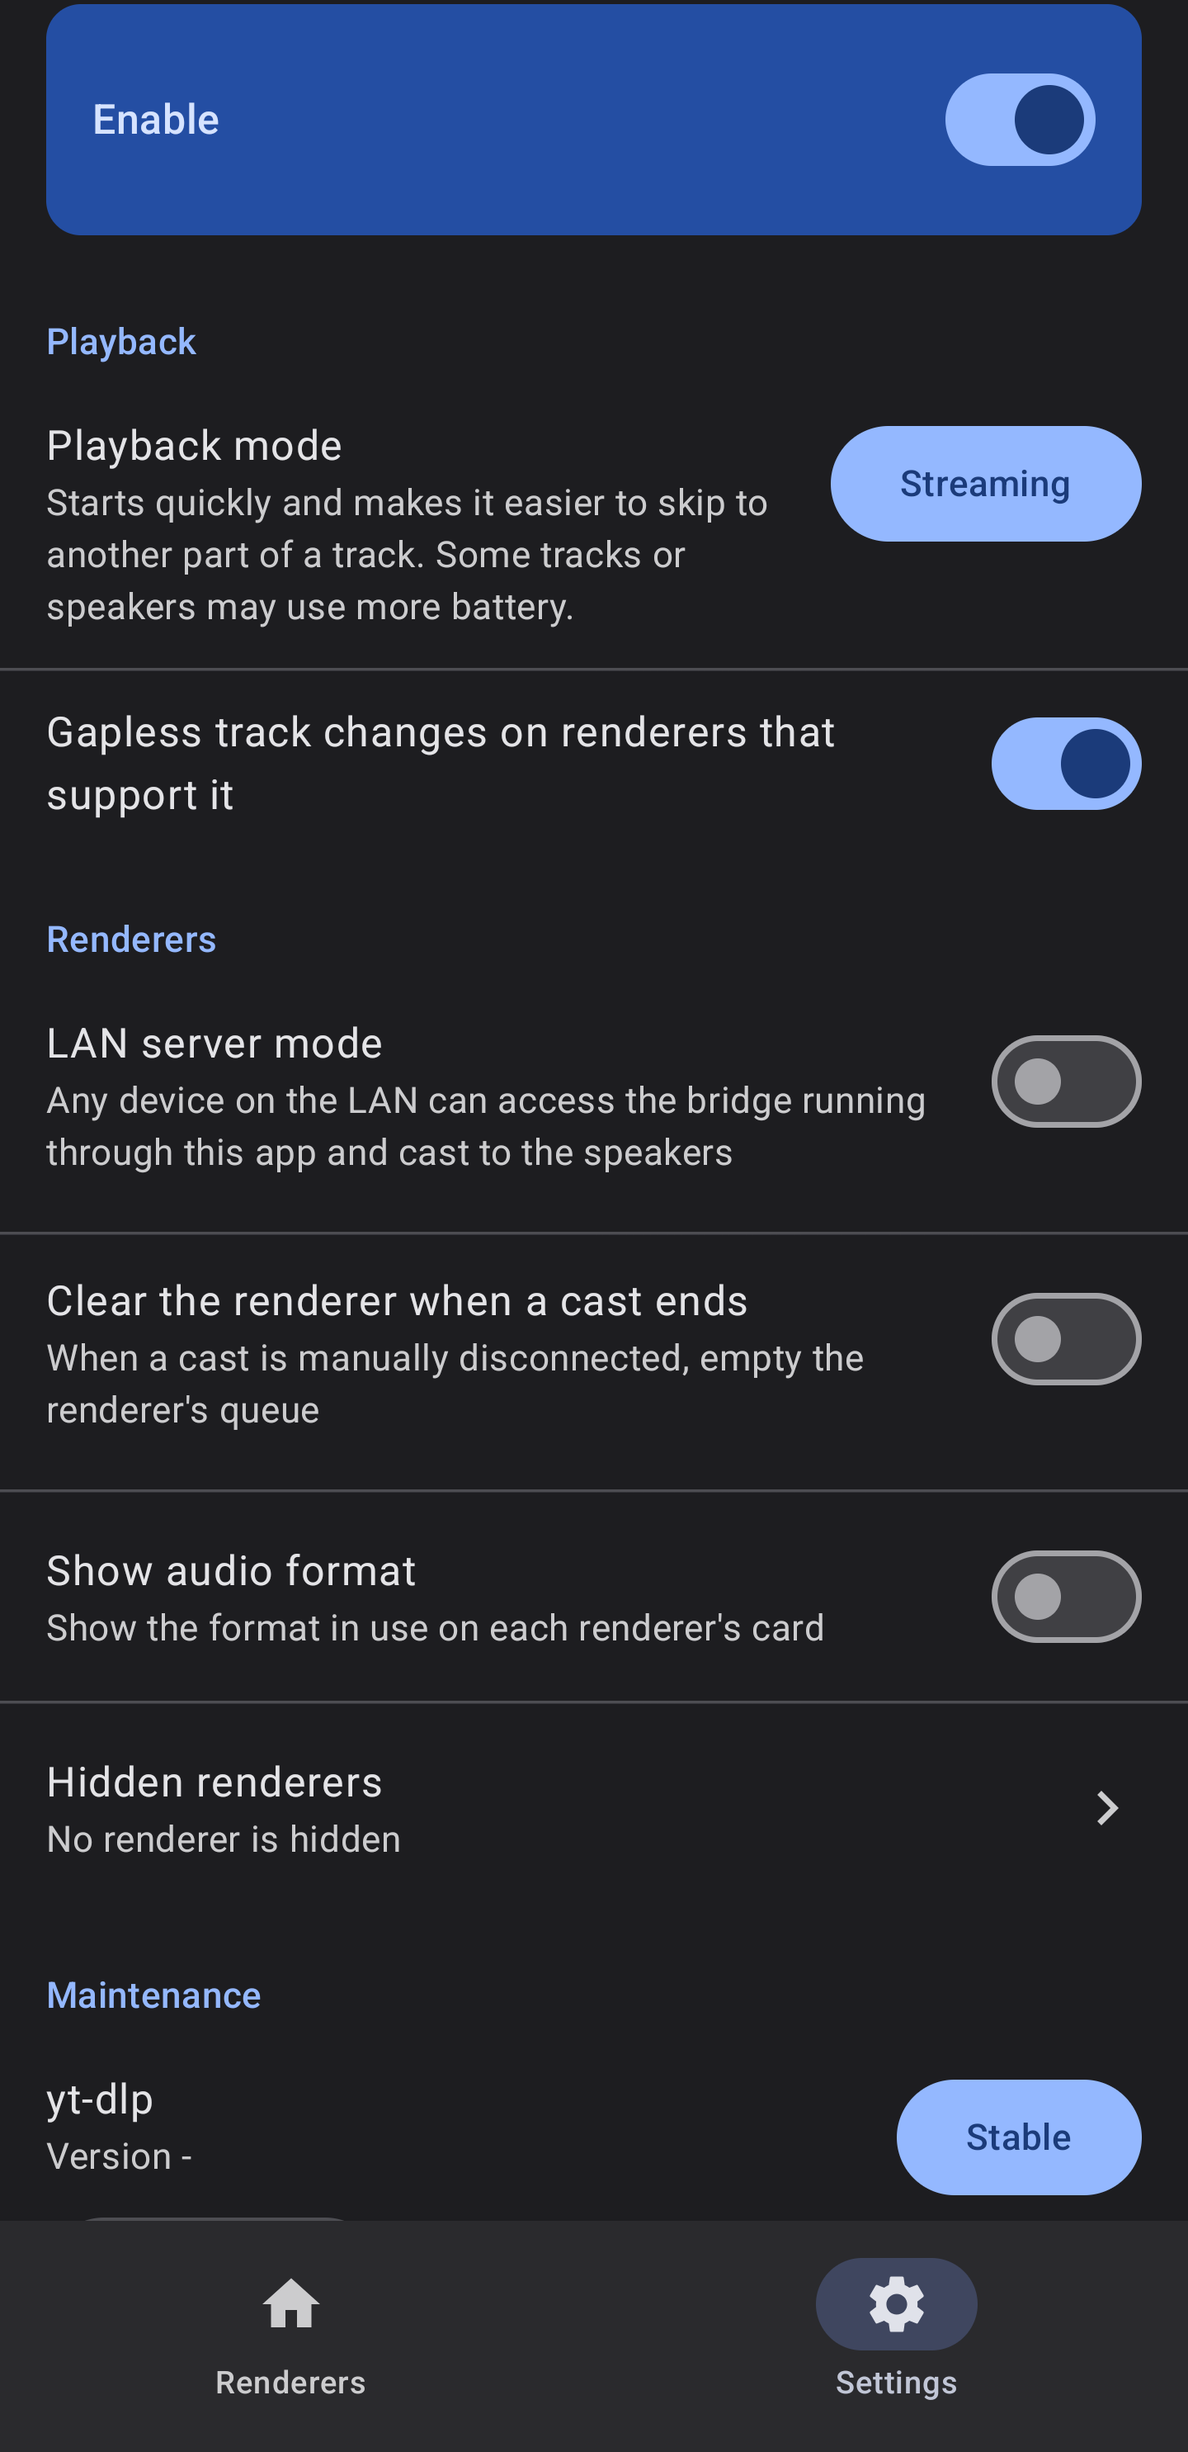
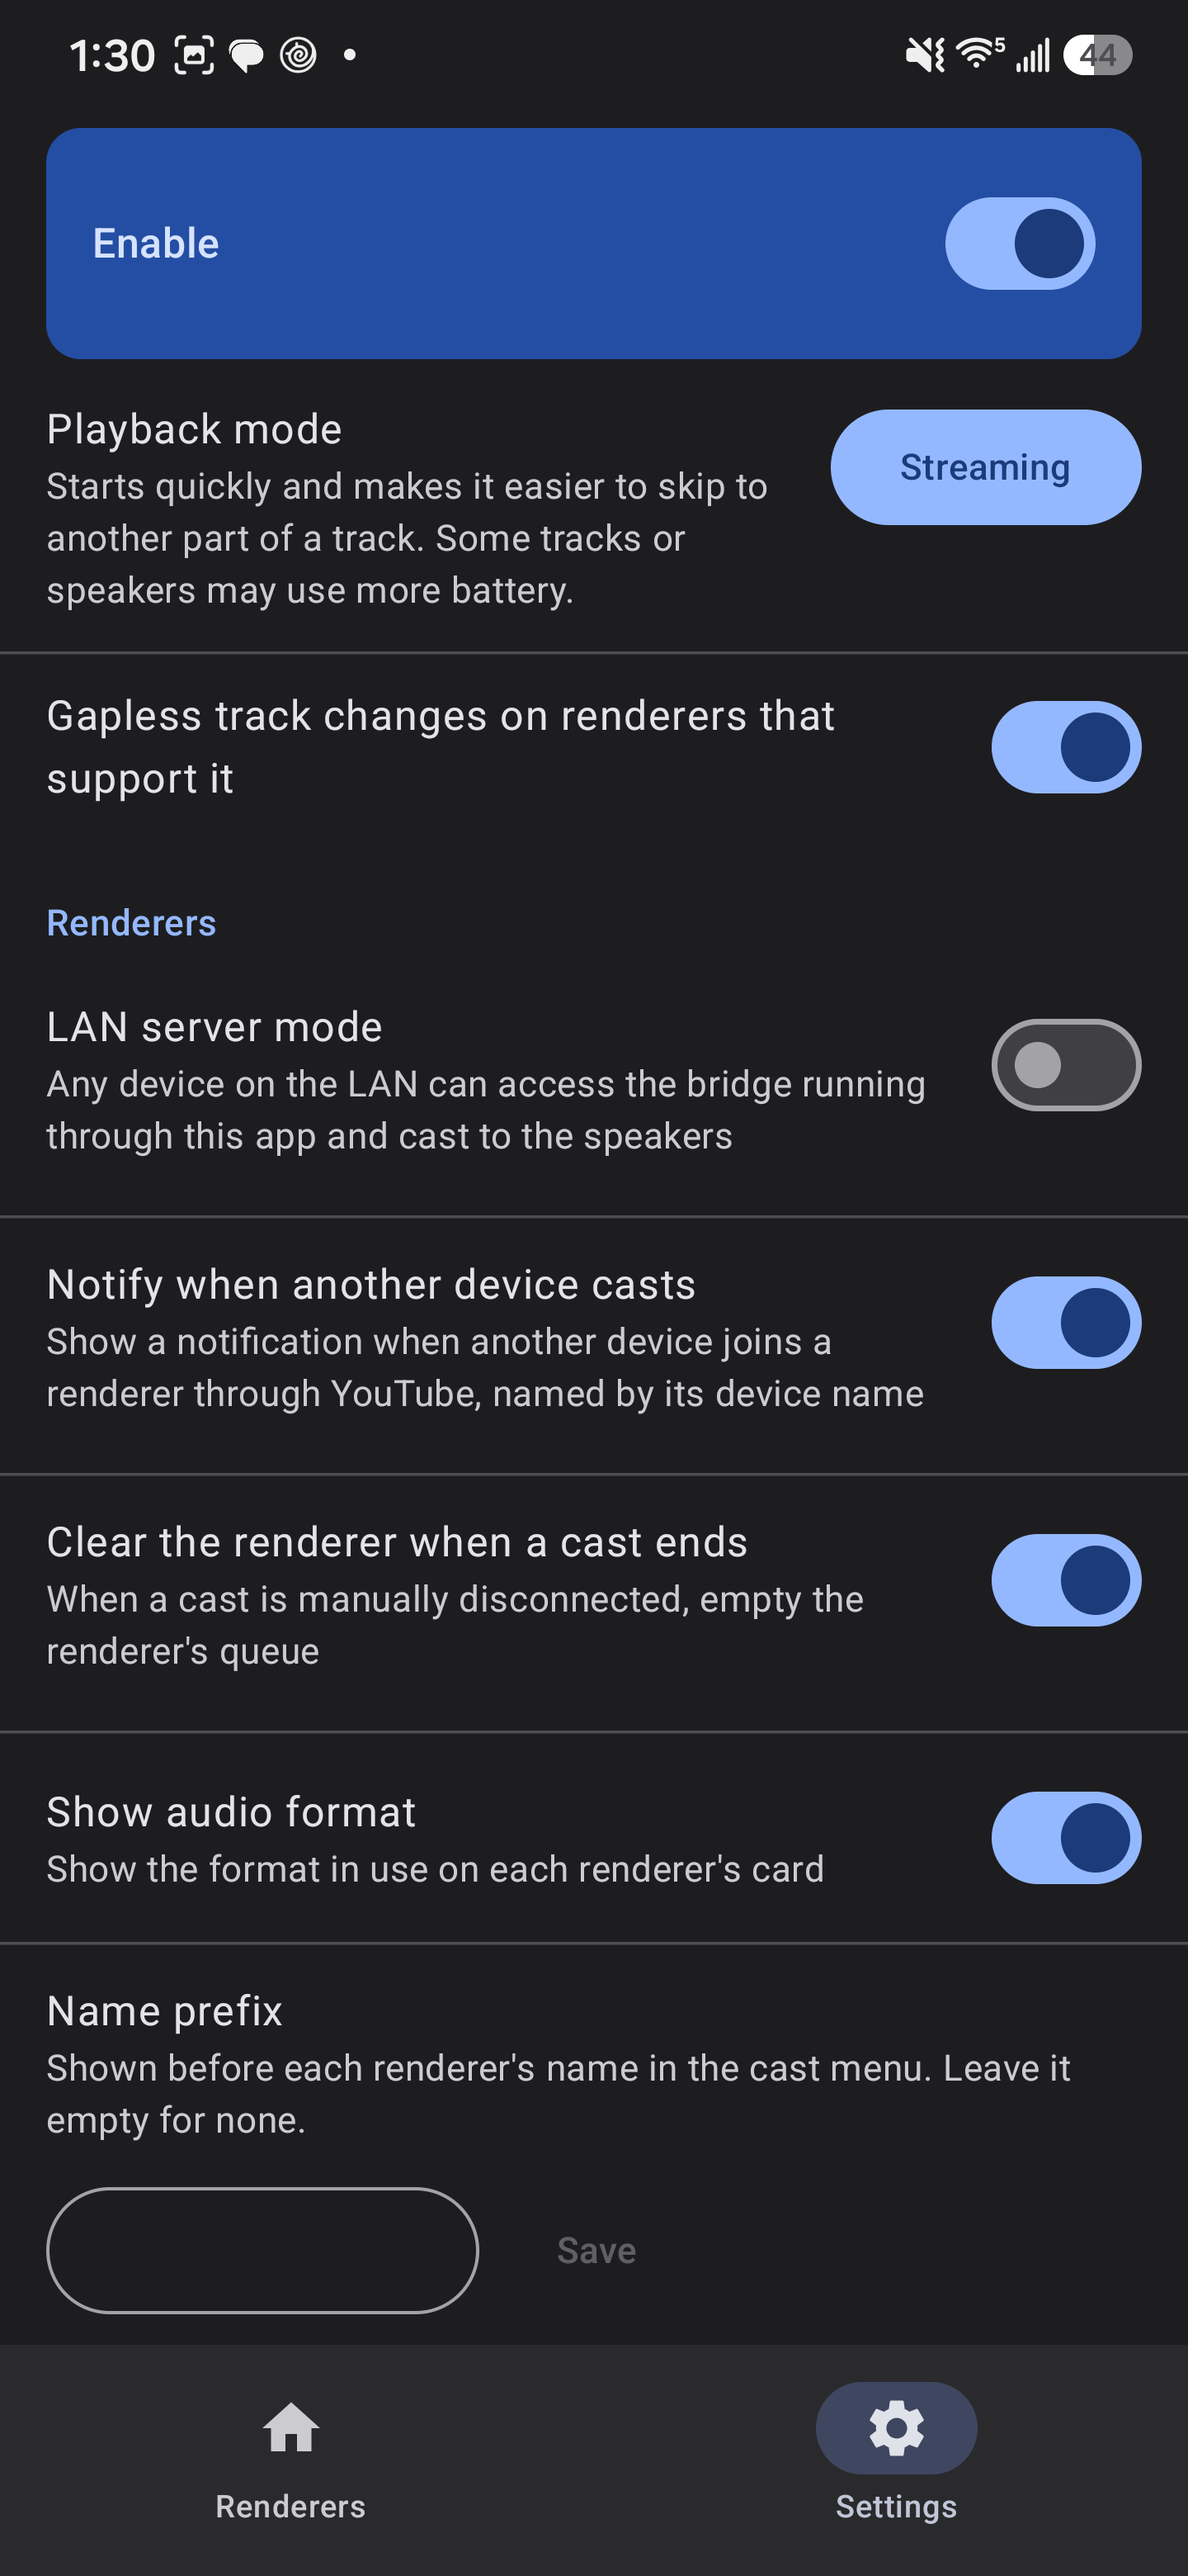
README cleanup and refreshed screenshots (#67)
- README cleanup (the author's edits).
- Updated Renderers and Settings screenshots to match the latest builds.
- The module table and the \`tools/\` line say renderer instead of
speaker.

Docs only: \`tools/check-docs.py\` passes locally.

---------

diff --git a/README.md b/README.md
@@ -27,13 +27,7 @@ audio with yt-dlp, remuxes or transcodes with ffmpeg, and serves the stream to t
 - **Full casting control**: Native casting control from YouTube and YouTube Music, including seeking, synced buffering, volume controls, next/previous track controls, autoplay, shuffle, repeat, and track metadata
 - **Wi-Fi recovery**: Brief Wi-Fi drops don't interrupt the cast; the bridge resyncs when Wi-Fi returns
 
-For volume requests that include a button direction, DialUP avoids applying a stale target in the opposite direction
-and reports the speaker's current volume back to the sender. Slider requests without a direction remain absolute.
-
 ## Playback modes
-
-Settings → Playback → Playback mode decides how audio gets from YouTube to your speaker. All three play the same
-tracks; they differ in how quickly playback starts, how well skipping works and what the phone has to do.
 
 | | Streaming (default) | Direct | Cached |
 |---|---|---|---|
@@ -43,19 +37,6 @@ tracks; they differ in how quickly playback starts, how well skipping works and 
 | Phone battery and CPU | Low with AAC; higher if it falls back to MP3 | Lowest | Busy while downloading, then low |
 | Phone storage | None | None | Uses the cache (256 MB by default, set in Settings) |
 | Speaker support | Falls back to MP3 if the speaker rejects AAC | Speaker must support the original audio format | Speaker plays a finished file, not a live stream |
-
-**Streaming** suits most people: it starts quickly and handles skipping by restarting the stream at the position you
-pick. Its downsides are a brief pause when you skip, and extra battery use on the tracks or speakers that need the
-MP3 fallback.
-
-**Direct** does the least work on the phone and keeps the original audio, but it depends on the speaker. Some speakers
-cannot play the original format, and a speaker that seeks by reading through the stream can take a long time to skip
-within a long track. Try it if Streaming drains your battery and your speaker handles it well.
-
-**Cached** prepares a complete file before playing, so the speaker can seek freely and a replayed track doesn't
-need to be fetched again. The cost is a longer start, especially for long tracks, and storage on the phone. A track too big for
-the cache is played from a temporary file and deleted afterwards. Old tracks are removed automatically, oldest
-first, to stay under the cache size.
 
 ## Privacy
 
@@ -83,13 +64,13 @@ Needs JDK 21, the Android SDK (platform 37, build-tools 36.0.0) and Gradle via t
 | Module | Job |
 |--------|-----|
 | `upnp` | SSDP, SOAP control, device descriptions |
-| `dial` | DIAL server and SSDP responder, one per speaker |
+| `dial` | DIAL server and SSDP responder, one per renderer |
 | `lounge` | YouTube lounge receiver and InnerTube client |
 | `media` | Local media server (Range, pipe, file cache) |
-| `renderer` | Per-speaker playback logic, queue, gapless hand-off |
+| `renderer` | Per-renderer playback logic, queue, gapless hand-off |
 | `app` | Android service, config, yt-dlp / ffmpeg wiring |
 
-`tools/` holds helper scripts for on-device testing (adb, fake speaker, log reports).
+`tools/` holds helper scripts for on-device testing (adb, fake renderer, log reports).
 
 ## Credits
 
